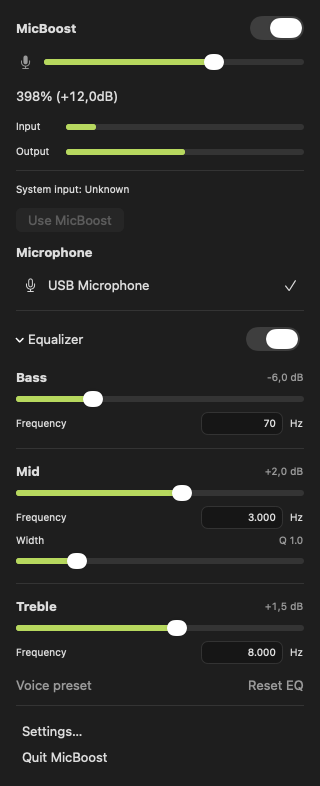
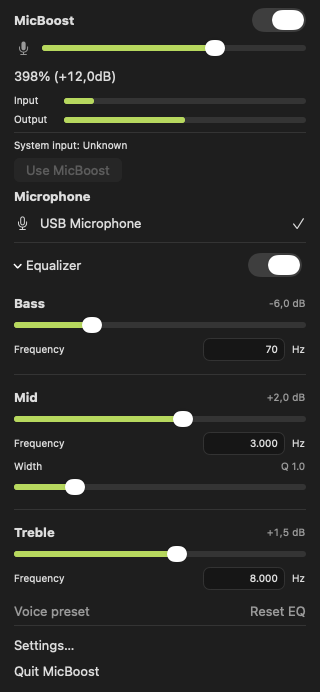
Compact menu spacing to match system menu proportions

diff --git a/Sources/MicBoostUI/Views.swift b/Sources/MicBoostUI/Views.swift
@@ -8,7 +8,7 @@ import SwiftUI
     @State private var editing = false
     public init(model: AppModel) { self.model = model }
     public var body: some View {
-        VStack(alignment: .leading, spacing: 12) {
+        VStack(alignment: .leading, spacing: 6) {
             HStack {
                 Text("MicBoost").font(.headline)
                 Spacer()
@@ -150,7 +150,8 @@ import SwiftUI
                 Button(localized("Quit MicBoost"), action: model.onQuit)
                     .accessibilityLabel(localized("Quit MicBoost"))
             }.buttonStyle(PanelMenuItemStyle())
-        }.padding(16).frame(width: 320).fixedSize(horizontal: false, vertical: true)
+        }.padding(.horizontal, 14).padding(.vertical, 8)
+            .frame(width: 320).fixedSize(horizontal: false, vertical: true)
             .animation(nil, value: model.expanded)
     }
     private func sourceSymbol(_ device: AudioDevice) -> String {
@@ -375,7 +376,6 @@ private struct PanelMenuItemStyle: ButtonStyle {
         configuration.label
             .font(.body)
             .frame(maxWidth: .infinity, alignment: .leading)
-            .padding(.horizontal, 6)
             .padding(.vertical, 5)
             .foregroundStyle(
                 highlighted ? Color(nsColor: .selectedMenuItemTextColor) : Color.primary

diff --git a/docs/ui.md b/docs/ui.md
@@ -25,7 +25,7 @@ arredondadas à direita. O sistema define a cor conforme a barra de menus. Estad
 
 `NSMenu` padrão do AppKit, sem seta, com `PanelView` hospedada na `view` de um `NSMenuItem`:
 - moldura, material, transparência, sombra e cantos desenhados pelo próprio menu, sem camadas de fundo adicionais;
-- conteúdo SwiftUI de 320 pt, com padding de conteúdo e sem herdar safe areas da janela interna do menu; mudanças de tamanho atualizam o frame da view do item;
+- conteúdo SwiftUI de 320 pt, com margens de 14 pt nas laterais, 8 pt no topo e rodapé e intervalo de 6 pt entre elementos; linhas de ação têm 5 pt de padding vertical e texto alinhado aos títulos; sem herdar safe areas da janela interna do menu; mudanças de tamanho atualizam o frame da view do item;
 - aberto sob o `NSStatusBarButton`, alinhado à direita e limitado à tela pelo AppKit;
 - fechamento e navegação do menu gerenciados pelo AppKit, inclusive Escape e clique fora;
 - o delegate inicia os medidores ao abrir e os cancela ao fechar;

diff --git a/README.md b/README.md
@@ -71,7 +71,8 @@ Available today:
 
 - **Recognizable menu bar icon**, with a microphone and rising bars matching the app icon;
   a slash across the bars indicates that processing is switched off.
-- **Standard macOS menu surface**, with system-managed appearance and dismissal, without a popover arrow.
+- **Standard macOS menu surface**, with compact spacing inspired by the macOS Wi-Fi menu,
+  system-managed appearance and dismissal, without a popover arrow.
 - **Gain readout** shows the percentage first, followed by decibels, for example `126% (+2.0dB)`.
 - **Slim level meters**, matching the gain slider track, refresh about 20 times per second
   with gradual peak decay. Their rounded native slider tracks
